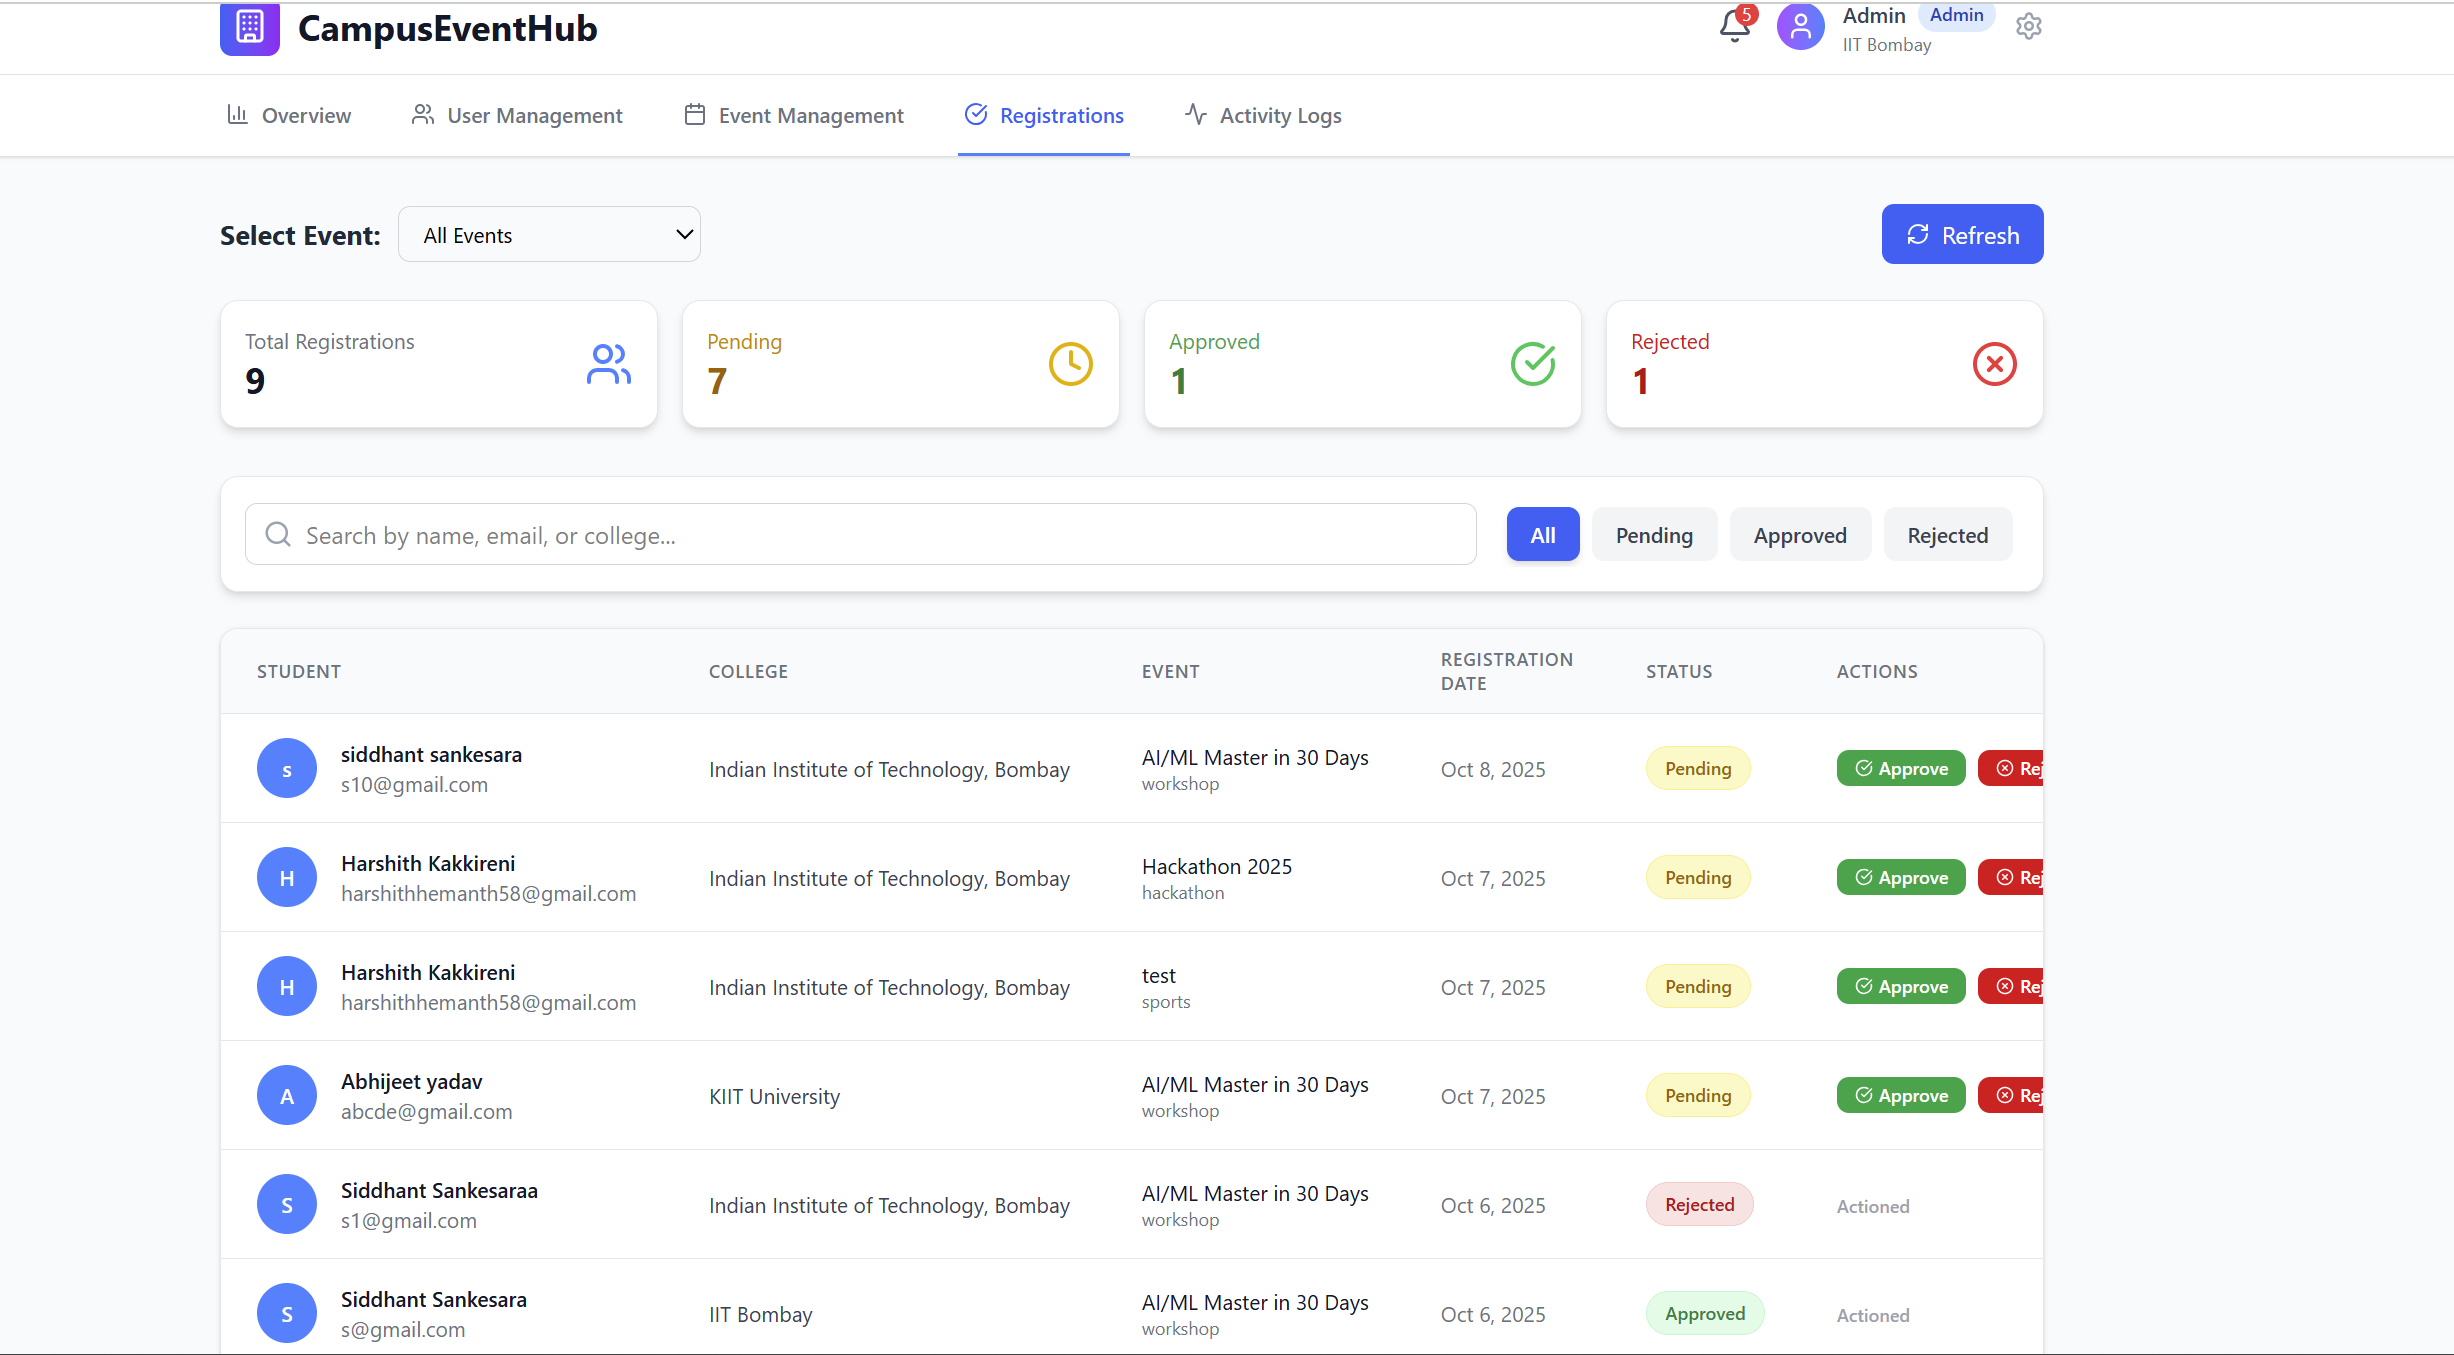
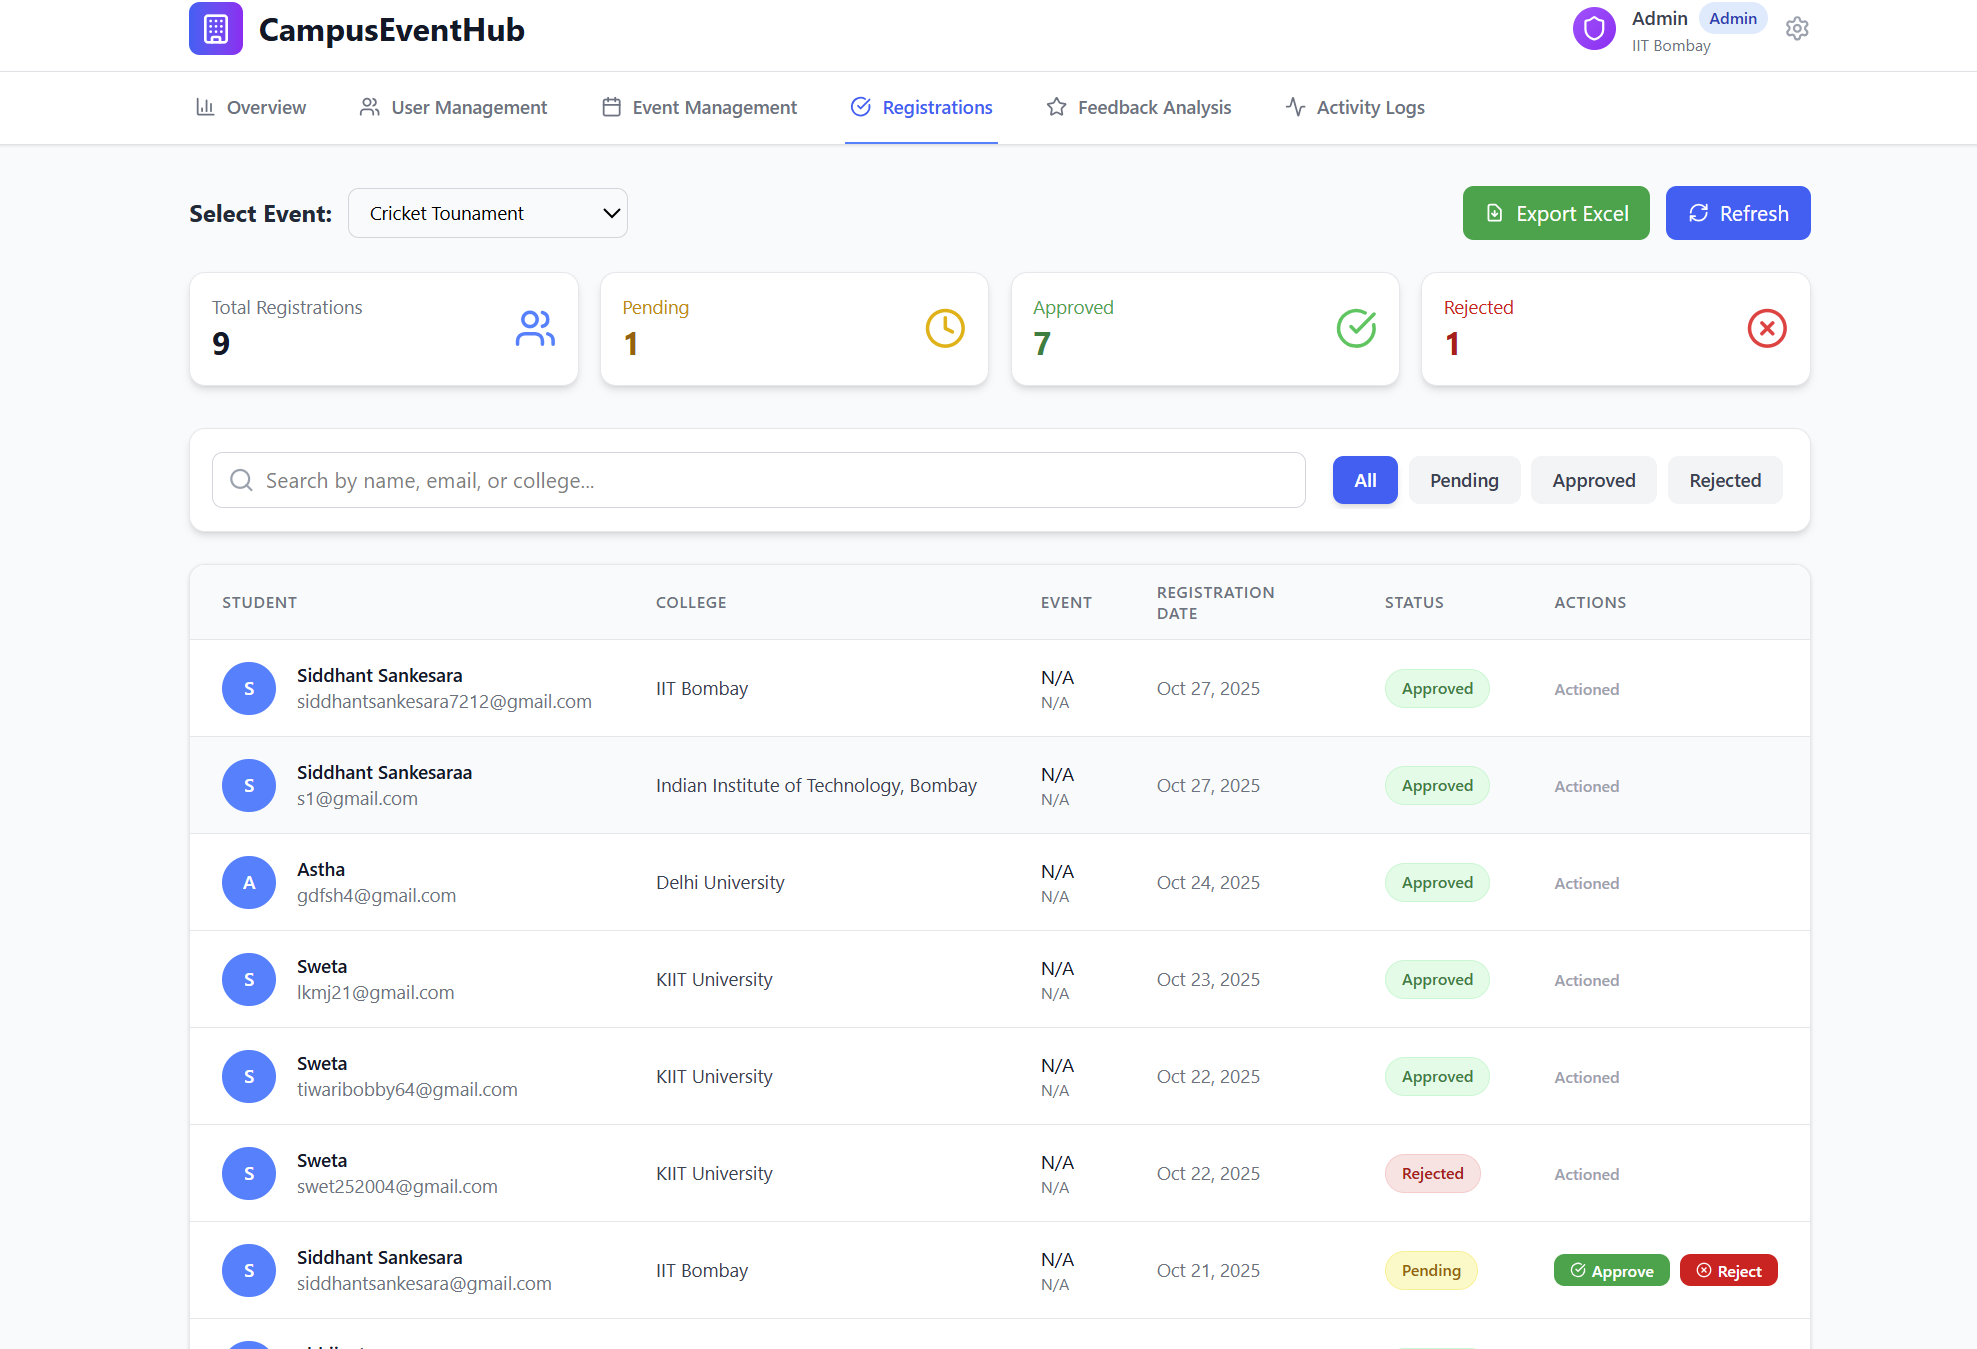
Exporting data feature added

diff --git a/Backend/controllers/registrationController.js b/Backend/controllers/registrationController.js
@@ -1,6 +1,7 @@
 const Registration = require('../models/Registration');
 const Event = require('../models/Event');
 const path = require('path');
+const XLSX = require('xlsx');
 
 // Initialize Stripe with better error handling
 let stripe = null;
@@ -592,5 +593,136 @@ exports.updateRegistrationStatus = async (req, res) => {
   } catch (error) {
     console.error('Update registration status error:', error);
     res.status(500).json({ error: 'Failed to update registration status' });
+  }
+};
+
+// Export registrations to Excel (admin only)
+exports.exportRegistrationsToExcel = async (req, res) => {
+  try {
+    const { eventId } = req.query; // Optional: filter by specific event
+    
+    // Check if user is admin
+    if (!['college_admin', 'super_admin'].includes(req.user.role)) {
+      return res.status(403).json({ error: 'Admin access required' });
+    }
+
+    let registrationFilter = {};
+    
+    // Role-based filtering
+    if (req.user.role === 'college_admin') {
+      // Get events created by this admin
+      const adminEvents = await Event.find({ created_by: req.user.id }).select('_id');
+      const adminEventIds = adminEvents.map(event => event._id);
+      registrationFilter.event_id = { $in: adminEventIds };
+    }
+    
+    // If specific event requested
+    if (eventId) {
+      registrationFilter.event_id = eventId;
+    }
+
+    // Fetch registrations with populated data
+    const registrations = await Registration.find(registrationFilter)
+      .populate({
+        path: 'user_id',
+        select: 'name email college phone'
+      })
+      .populate({
+        path: 'event_id',
+        select: 'title category start_date end_date location college_name price registration_limit'
+      })
+      .sort({ timestamp: -1 });
+
+    // Filter out null references
+    const validRegistrations = registrations.filter(reg => 
+      reg.user_id !== null && reg.event_id !== null
+    );
+
+    // Prepare data for Excel
+    const excelData = validRegistrations.map((reg, index) => ({
+      'S.No': index + 1,
+      'Registration ID': reg._id.toString(),
+      'Student Name': reg.user_id.name,
+      'Email': reg.user_id.email,
+      'College': reg.user_id.college,
+      'Phone': reg.user_id.phone || 'N/A',
+      'Event Title': reg.event_id.title,
+      'Event Category': reg.event_id.category,
+      'Event Date': new Date(reg.event_id.start_date).toLocaleDateString('en-US'),
+      'Event Time': new Date(reg.event_id.start_date).toLocaleTimeString('en-US'),
+      'Event Location': reg.event_id.location,
+      'Event College': reg.event_id.college_name,
+      'Registration Fee': reg.event_id.price === 0 ? 'Free' : `₹${reg.event_id.price}`,
+      'Registration Status': reg.status.toUpperCase(),
+      'Ticket Available': reg.status === 'approved' ? 'YES' : 'NO',
+      'Ticket Download Link': reg.status === 'approved' 
+        ? `${process.env.FRONTEND_URL || 'http://localhost:5173'}/api/tickets/${reg._id}`
+        : 'N/A',
+      'Registration Date': new Date(reg.timestamp).toLocaleDateString('en-US'),
+      'Registration Time': new Date(reg.timestamp).toLocaleTimeString('en-US'),
+      'Payment ID': reg.stripe_payment_id || 'N/A',
+      'Event Capacity': reg.event_id.registration_limit,
+      'QR Code Data': JSON.stringify({
+        registrationId: reg._id,
+        eventId: reg.event_id._id,
+        userId: reg.user_id._id,
+        timestamp: reg.timestamp
+      })
+    }));
+
+    // Create workbook and worksheet
+    const workbook = XLSX.utils.book_new();
+    const worksheet = XLSX.utils.json_to_sheet(excelData);
+
+    // Set column widths for better readability
+    const columnWidths = [
+      { wch: 5 },  // S.No
+      { wch: 25 }, // Registration ID
+      { wch: 20 }, // Student Name
+      { wch: 30 }, // Email
+      { wch: 25 }, // College
+      { wch: 15 }, // Phone
+      { wch: 30 }, // Event Title
+      { wch: 15 }, // Event Category
+      { wch: 12 }, // Event Date
+      { wch: 12 }, // Event Time
+      { wch: 25 }, // Event Location
+      { wch: 25 }, // Event College
+      { wch: 15 }, // Registration Fee
+      { wch: 15 }, // Registration Status
+      { wch: 15 }, // Ticket Available
+      { wch: 50 }, // Ticket Download Link
+      { wch: 15 }, // Registration Date
+      { wch: 15 }, // Registration Time
+      { wch: 20 }, // Payment ID
+      { wch: 15 }, // Event Capacity
+      { wch: 40 }  // QR Code Data
+    ];
+    
+    worksheet['!cols'] = columnWidths;
+
+    // Add worksheet to workbook
+    const sheetName = eventId ? `Event_Registrations_${eventId.slice(-6)}` : 'All_Registrations';
+    XLSX.utils.book_append_sheet(workbook, worksheet, sheetName);
+
+    // Generate Excel file buffer
+    const excelBuffer = XLSX.write(workbook, { type: 'buffer', bookType: 'xlsx' });
+
+    // Set response headers
+    const fileName = `registrations_${new Date().toISOString().split('T')[0]}_${Date.now()}.xlsx`;
+    res.setHeader('Content-Type', 'application/vnd.openxmlformats-officedocument.spreadsheetml.sheet');
+    res.setHeader('Content-Disposition', `attachment; filename="${fileName}"`);
+    res.setHeader('Content-Length', excelBuffer.length);
+
+    // Send file
+    res.send(excelBuffer);
+
+  } catch (error) {
+    console.error('Excel export error:', error);
+    res.status(500).json({ 
+      success: false, 
+      error: 'Failed to export registrations to Excel',
+      message: error.message 
+    });
   }
 };

diff --git a/frontend/src/components/admin/EventRegistrations.jsx b/frontend/src/components/admin/EventRegistrations.jsx
@@ -10,6 +10,7 @@ const EventRegistrations = () => {
   const [selectedEvent, setSelectedEvent] = useState('All');
   const [events, setEvents] = useState([]);
   const [updateLoading, setUpdateLoading] = useState(null);
+  const [exportLoading, setExportLoading] = useState(false);
 
   const token = localStorage.getItem('token');
 
@@ -150,6 +151,61 @@ const EventRegistrations = () => {
     }
   };
 
+  const handleExcelExport = async () => {
+    try {
+      setExportLoading(true);
+      
+      const queryParams = new URLSearchParams();
+      if (selectedEvent !== 'All') {
+        queryParams.append('eventId', selectedEvent);
+      }
+      
+      const response = await fetch(`${API_BASE_URL}/events/export/registrations/excel?${queryParams}`, {
+        method: 'GET',
+        headers: {
+          'Authorization': `Bearer ${token}`,
+        },
+      });
+
+      if (!response.ok) {
+        const errorData = await response.json();
+        throw new Error(errorData.error || 'Failed to export data');
+      }
+
+      // Get the Excel file
+      const blob = await response.blob();
+      
+      // Create download link
+      const url = window.URL.createObjectURL(blob);
+      const link = document.createElement('a');
+      link.href = url;
+      
+      // Generate filename
+      const eventName = selectedEvent === 'All' ? 'All_Events' : 
+        events.find(e => e._id === selectedEvent)?.title.replace(/[^a-zA-Z0-9]/g, '_') || 'Event';
+      const fileName = `${eventName}_Registrations_${new Date().toISOString().split('T')[0]}.xlsx`;
+      
+      link.download = fileName;
+      
+      // Trigger download
+      document.body.appendChild(link);
+      link.click();
+      
+      // Cleanup
+      document.body.removeChild(link);
+      window.URL.revokeObjectURL(url);
+
+      // Show success message (you can replace with your toast system)
+      alert('Registration data exported successfully!');
+
+    } catch (error) {
+      console.error('Export error:', error);
+      alert('Failed to export data: ' + error.message);
+    } finally {
+      setExportLoading(false);
+    }
+  };
+
   const getStatusColor = (status) => {
     switch (status) {
       case 'approved': return 'text-green-700 bg-green-100 border-green-200';
@@ -198,14 +254,38 @@ const EventRegistrations = () => {
           </select>
         </div>
         
-        <button
-          onClick={() => selectedEvent === 'All' ? fetchAllRegistrations() : fetchRegistrations(selectedEvent)}
-          className="flex items-center space-x-2 px-4 py-2 bg-blue-600 text-white rounded-lg hover:bg-blue-700 transition-colors"
-          disabled={loading}
-        >
-          <RefreshCw className={`w-4 h-4 ${loading ? 'animate-spin' : ''}`} />
-          <span>Refresh</span>
-        </button>
+        <div className="flex items-center space-x-3">
+          {/* Excel Export Button */}
+          <button
+            onClick={handleExcelExport}
+            disabled={exportLoading || loading}
+            className="flex items-center space-x-2 px-4 py-2 bg-green-600 text-white rounded-lg hover:bg-green-700 transition-colors disabled:opacity-50 disabled:cursor-not-allowed"
+          >
+            {exportLoading ? (
+              <>
+                <div className="animate-spin rounded-full h-4 w-4 border-b-2 border-white"></div>
+                <span>Exporting...</span>
+              </>
+            ) : (
+              <>
+                <svg className="w-4 h-4" fill="none" stroke="currentColor" viewBox="0 0 24 24">
+                  <path strokeLinecap="round" strokeLinejoin="round" strokeWidth={2} d="M12 10v6m0 0l-3-3m3 3l3-3m2 8H7a2 2 0 01-2-2V5a2 2 0 012-2h5.586a1 1 0 01.707.293l5.414 5.414a1 1 0 01.293.707V19a2 2 0 01-2 2z" />
+                </svg>
+                <span>Export Excel</span>
+              </>
+            )}
+          </button>
+          
+          {/* Refresh Button */}
+          <button
+            onClick={() => selectedEvent === 'All' ? fetchAllRegistrations() : fetchRegistrations(selectedEvent)}
+            className="flex items-center space-x-2 px-4 py-2 bg-blue-600 text-white rounded-lg hover:bg-blue-700 transition-colors"
+            disabled={loading}
+          >
+            <RefreshCw className={`w-4 h-4 ${loading ? 'animate-spin' : ''}`} />
+            <span>Refresh</span>
+          </button>
+        </div>
       </div>
 
       {/* Stats Cards */}

diff --git a/Backend/routes/eventRoutes.js b/Backend/routes/eventRoutes.js
@@ -193,6 +193,11 @@ router.patch('/registrations/:registrationId',
   registrationController.updateRegistrationStatus
 );
 
-
+// Export registrations to Excel (admin only)
+router.get('/export/registrations/excel', 
+  protect, 
+  restrictTo('college_admin', 'super_admin'),
+  registrationController.exportRegistrationsToExcel
+);
 
 module.exports = router;

diff --git a/README.md b/README.md
@@ -27,6 +27,7 @@ The platform ensures **secure authentication**, **role-based access control**, a
 - 🎫 **QR-Based Ticket System** with automatic generation and email delivery
 - 📈 **Real-time Analytics** with interactive charts
 - ⭐ **Feedback & Rating System** with detailed comments and analytics
+- 📋 **Excel Data Export** with comprehensive registration details and ticket information
 - 🔍 **Advanced Filtering** and search capabilities
 - 📱 **Responsive Design** across all devices
 - 📋 **Activity Logging** for audit trails
@@ -53,6 +54,7 @@ The platform ensures **secure authentication**, **role-based access control**, a
 ![QRCode](https://img.shields.io/badge/QRCode-000000?style=for-the-badge&logo=qrcode&logoColor=white)
 ![Nodemailer](https://img.shields.io/badge/Nodemailer-22B573?style=for-the-badge&logo=mail&logoColor=white)
 ![Stripe](https://img.shields.io/badge/Stripe-008C45?style=for-the-badge&logo=stripe&logoColor=white)
+![XLSX](https://img.shields.io/badge/XLSX-217346?style=for-the-badge&logo=microsoftexcel&logoColor=white)
 
 ### Development Tools
 ![VS Code](https://img.shields.io/badge/Visual_Studio_Code-0078D4?style=for-the-badge&logo=visual%20studio%20code&logoColor=white)
@@ -319,6 +321,8 @@ The platform ensures **secure authentication**, **role-based access control**, a
 - ✅ Responsive design across devices
 - ✅ PDF ticket generation with QR codes
 - ✅ Multi-location ticket download access
+- ✅ Excel export functionality with comprehensive registration data
+- ✅ Role-based data export permissions
 
 ---
 
@@ -360,10 +364,11 @@ npm run build
 2. **View Analytics** → See registration statistics and charts
 3. **Create Events** → Add new events for your college
 4. **Manage Registrations** → Approve or reject student applications
-5. **Automatic Tickets** → System generates and emails tickets upon approval
-6. **Monitor Students** → View and manage students from your college
-7. **Activity Logs** → Track all administrative actions
-8. **Feedback Analysis** → Review student ratings and comments for event improvement
+5. **Excel Data Export** → Download comprehensive registration data with ticket information
+6. **Automatic Tickets** → System generates and emails tickets upon approval
+7. **Monitor Students** → View and manage students from your college
+8. **Activity Logs** → Track all administrative actions
+9. **Feedback Analysis** → Review student ratings and comments for event improvement
 
 ### For Super Admin 👑
 1. **Super Admin Login** → Access system-wide dashboard with red theme
@@ -399,6 +404,7 @@ npm run build
 - **Data isolation**: College admins see only their college data
 - **Registration management**: Dedicated tab for approval workflow
 - **User management**: Role-based user viewing and filtering
+- **Excel data export**: Comprehensive registration data export with ticket information
 
 ### ✅ Milestone 4: Feedback & Interaction System
 - **Star rating system**: Five-star rating with visual indicators
@@ -445,7 +451,9 @@ CampusEventHub successfully demonstrates a **functional, secure, and scalable** 
 - ✅ **Responsive Design** for mobile and desktop
 - ✅ **Secure Authentication** with JWT and bcrypt
 - ✅ **PDF Generation** with professional ticket design
-r
+- ✅ **Excel Export System** with comprehensive registration analytics and ticket data
+- ✅ **Data Export Security** with role-based access control for sensitive information
+
 ---
 
 ## 🤝 Contributing
